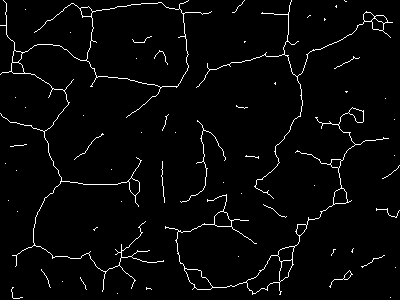
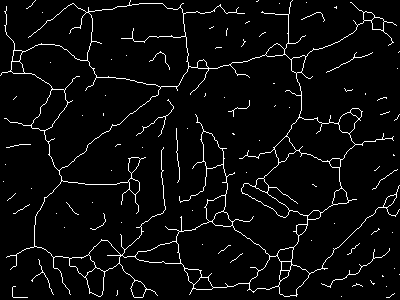
canny fusion

diff --git a/stages/binarization.py b/stages/binarization.py
@@ -1,6 +1,7 @@
 # stages/binarization.py
 
 import cv2
+import numpy as np
 import sys
 import os
 sys.path.append(os.path.dirname(os.path.dirname(os.path.abspath(__file__))))
@@ -8,19 +9,30 @@ from config import ADAPTIVE_BLOCK_SIZE, ADAPTIVE_C
 
 def binarize(enhanced):
     """
-    Stage 2: Convert enhanced grayscale image to binary.
-    Grain boundaries become white (255), grain interiors black (0).
-    Returns: binary image
+    Stage 2: Fuse adaptive threshold + Canny edges.
+    Adaptive catches broad boundary regions.
+    Canny catches subtle gradient-based boundaries.
+    Combined = better recall without killing precision.
     """
 
-    # Adaptive thresholding - handles uneven lighting
-    binary = cv2.adaptiveThreshold(
+    # Method 1 — Adaptive threshold (what we had before)
+    adaptive = cv2.adaptiveThreshold(
         enhanced,
         255,
         cv2.ADAPTIVE_THRESH_GAUSSIAN_C,
-        cv2.THRESH_BINARY_INV,   # INV = boundaries become WHITE
+        cv2.THRESH_BINARY_INV,
         ADAPTIVE_BLOCK_SIZE,
         ADAPTIVE_C
     )
 
-    return binary
+    # Method 2 — Canny edge detection
+    # Canny finds boundaries based on intensity gradients
+    # threshold1=low, threshold2=high — edges between are kept
+    # if connected to strong edges
+    canny = cv2.Canny(enhanced, threshold1=30, threshold2=90)
+
+    # Fuse both — OR operation means a pixel is boundary
+    # if EITHER method detected it
+    fused = cv2.bitwise_or(adaptive, canny)
+
+    return fused

diff --git a/config.py b/config.py
@@ -13,12 +13,12 @@ CLAHE_TILE_SIZE  = (8, 8)   # local region size for CLAHE
 
 # ── Stage 2: Binarization ────────────────────────────────
 ADAPTIVE_BLOCK_SIZE = 21    # local window size (must be odd)
-ADAPTIVE_C          = 6     # constant subtracted from mean
+ADAPTIVE_C          = 4     # constant subtracted from mean
 
 # ── Stage 3: Morphology ──────────────────────────────────
 MORPH_KERNEL_SIZE   = (3, 3)
-MIN_AREA_THRESHOLD  = 50    # remove noise smaller than this (pixels)
-PRUNE_LENGTH        = 10    # remove skeleton branches shorter than this
+MIN_AREA_THRESHOLD  = 30    # remove noise smaller than this (pixels)
+PRUNE_LENGTH        = 5    # remove skeleton branches shorter than this
 
 # ── Stage 4: Segmentation ────────────────────────────────
 GAP_CLOSE_DISTANCE  = 10    # max pixel gap to bridge in boundaries

diff --git a/test_pipeline.py b/test_pipeline.py
@@ -14,7 +14,7 @@ test_images = [
 
 results = []
 for img in test_images:
-    enhanced, skeleton, markers = run_pipeline(img, show_steps=False)
+    enhanced, skeleton, markers,astm,metrics = run_pipeline(img, show_steps=False)
     metrics = compare_with_ground_truth(skeleton, img)
     if metrics:
         results.append((img, *metrics))
